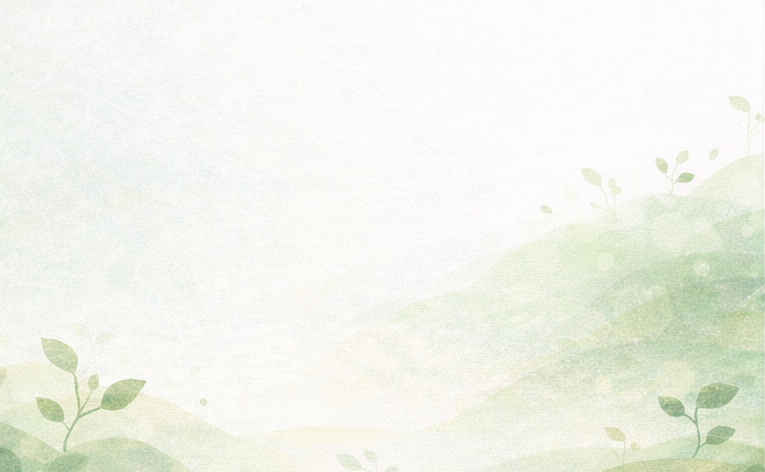
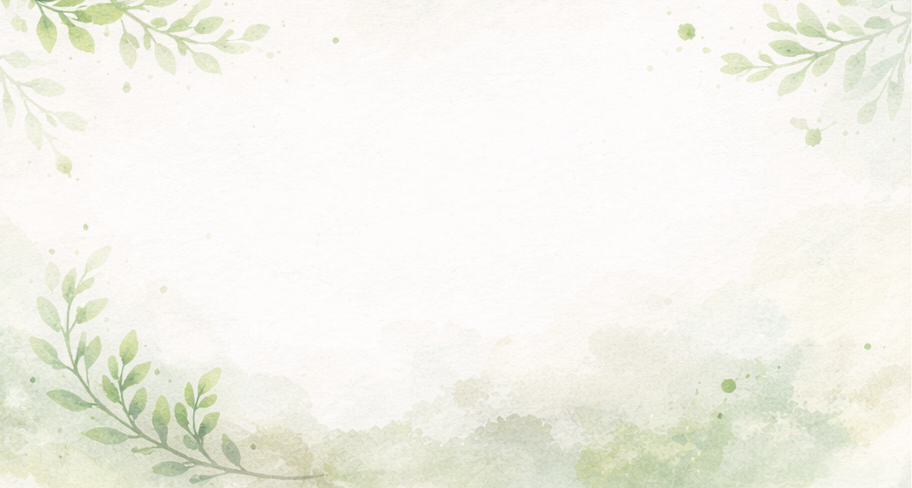
some updates

diff --git a/src/components/reviews/Reviews.jsx b/src/components/reviews/Reviews.jsx
@@ -7,19 +7,36 @@ import { horizontalScale, verticalScale } from '../../../assets/styles/Scaling';
 const Reviews = () => {
   return (
     <View style={[globalStyle.relative, globalStyle.mt20]}>
+      <Image
+        source={require('../../../assets/images/reviewsbg.png')}
+        style={{
+          position: 'absolute',
+          top: 0,
+          left: horizontalScale(-10),
+          right: 0,
+          height: verticalScale(120),
+          width: '100%',
+          resizeMode: 'cover',
+        
+        }}
+      />
       <Typography variant="h5" weight="Bold">
         User Reviews
       </Typography>
 
       <View style={globalStyle.reviewcard}>
         <View style={[globalStyle.column]}>
-          <View style={[globalStyle.row, globalStyle.cg10,globalStyle.alignCenter]}>
+          <View
+            style={[globalStyle.row, globalStyle.cg10, globalStyle.alignCenter]}
+          >
             <Image
-               resizeMode='contain'
+              resizeMode="contain"
               source={require('../../../assets/images/user.png')}
               style={{ height: verticalScale(30), width: horizontalScale(30) }}
             />
-            <Typography variant='subhead' color='#000' weight='MSemiBold'>Mr mark</Typography>
+            <Typography variant="subhead" color="#000" weight="MSemiBold">
+              Mr mark
+            </Typography>
           </View>
         </View>
       </View>

diff --git a/src/screens/main/homescreen/HomeScreen.jsx b/src/screens/main/homescreen/HomeScreen.jsx
@@ -150,11 +150,7 @@ const HomeScreen = ({ navigation }) => {
             }
           />
 
-          <ImageBackground
-            source={require('../../../../assets/images/reviewsbg.png')}
-          >
-            <Reviews />
-          </ImageBackground>
+          <Reviews />
         </View>
       </ScrollView>
     </SafeAreaView>

diff --git a/assets/styles/globalStyle.js b/assets/styles/globalStyle.js
@@ -213,5 +213,6 @@ export const globalStyle = StyleSheet.create({
     minHeight: verticalScale(90),
     elevation: horizontalScale(2),
     padding: horizontalScale(10),
+    marginTop: verticalScale(10), 
   },
 });
